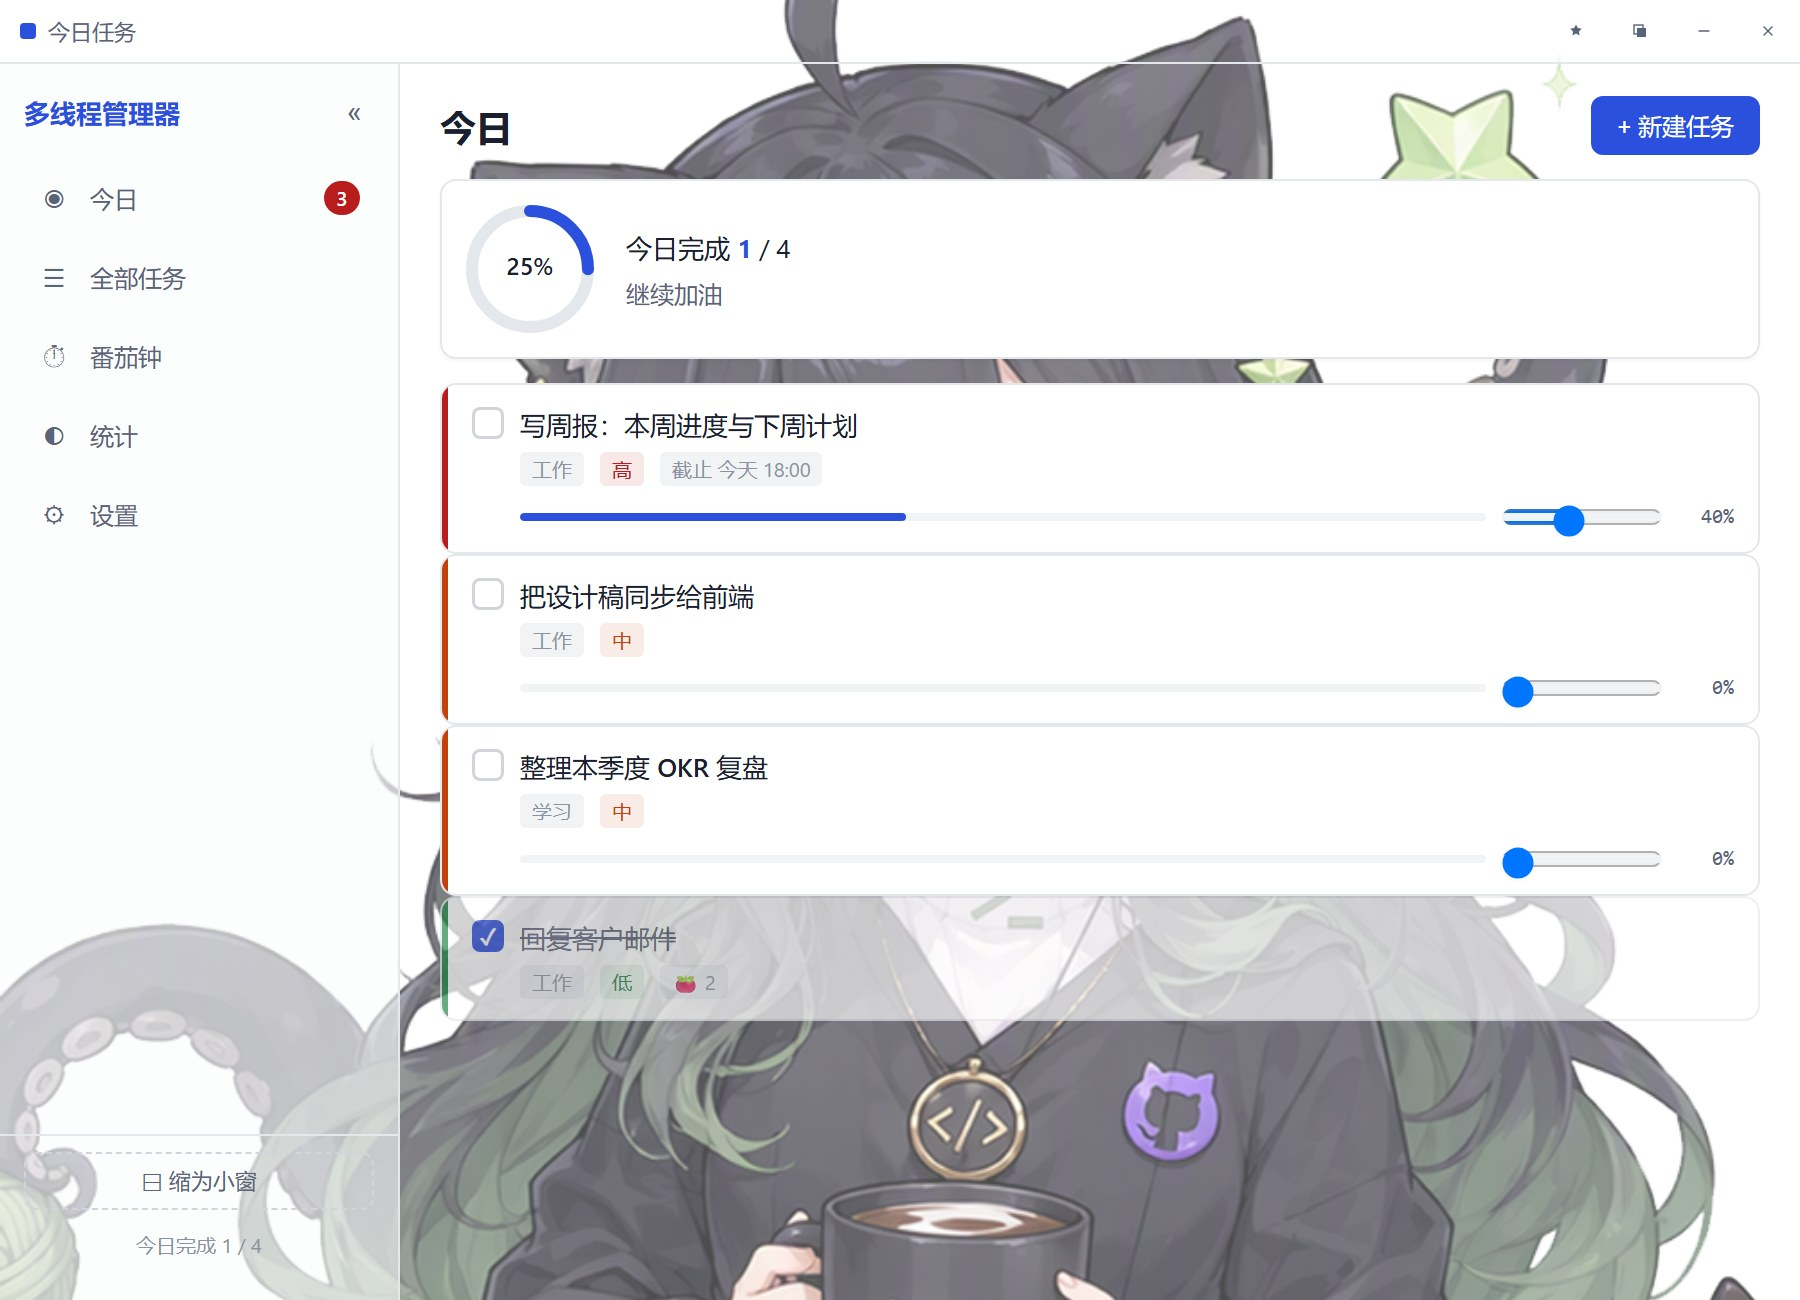
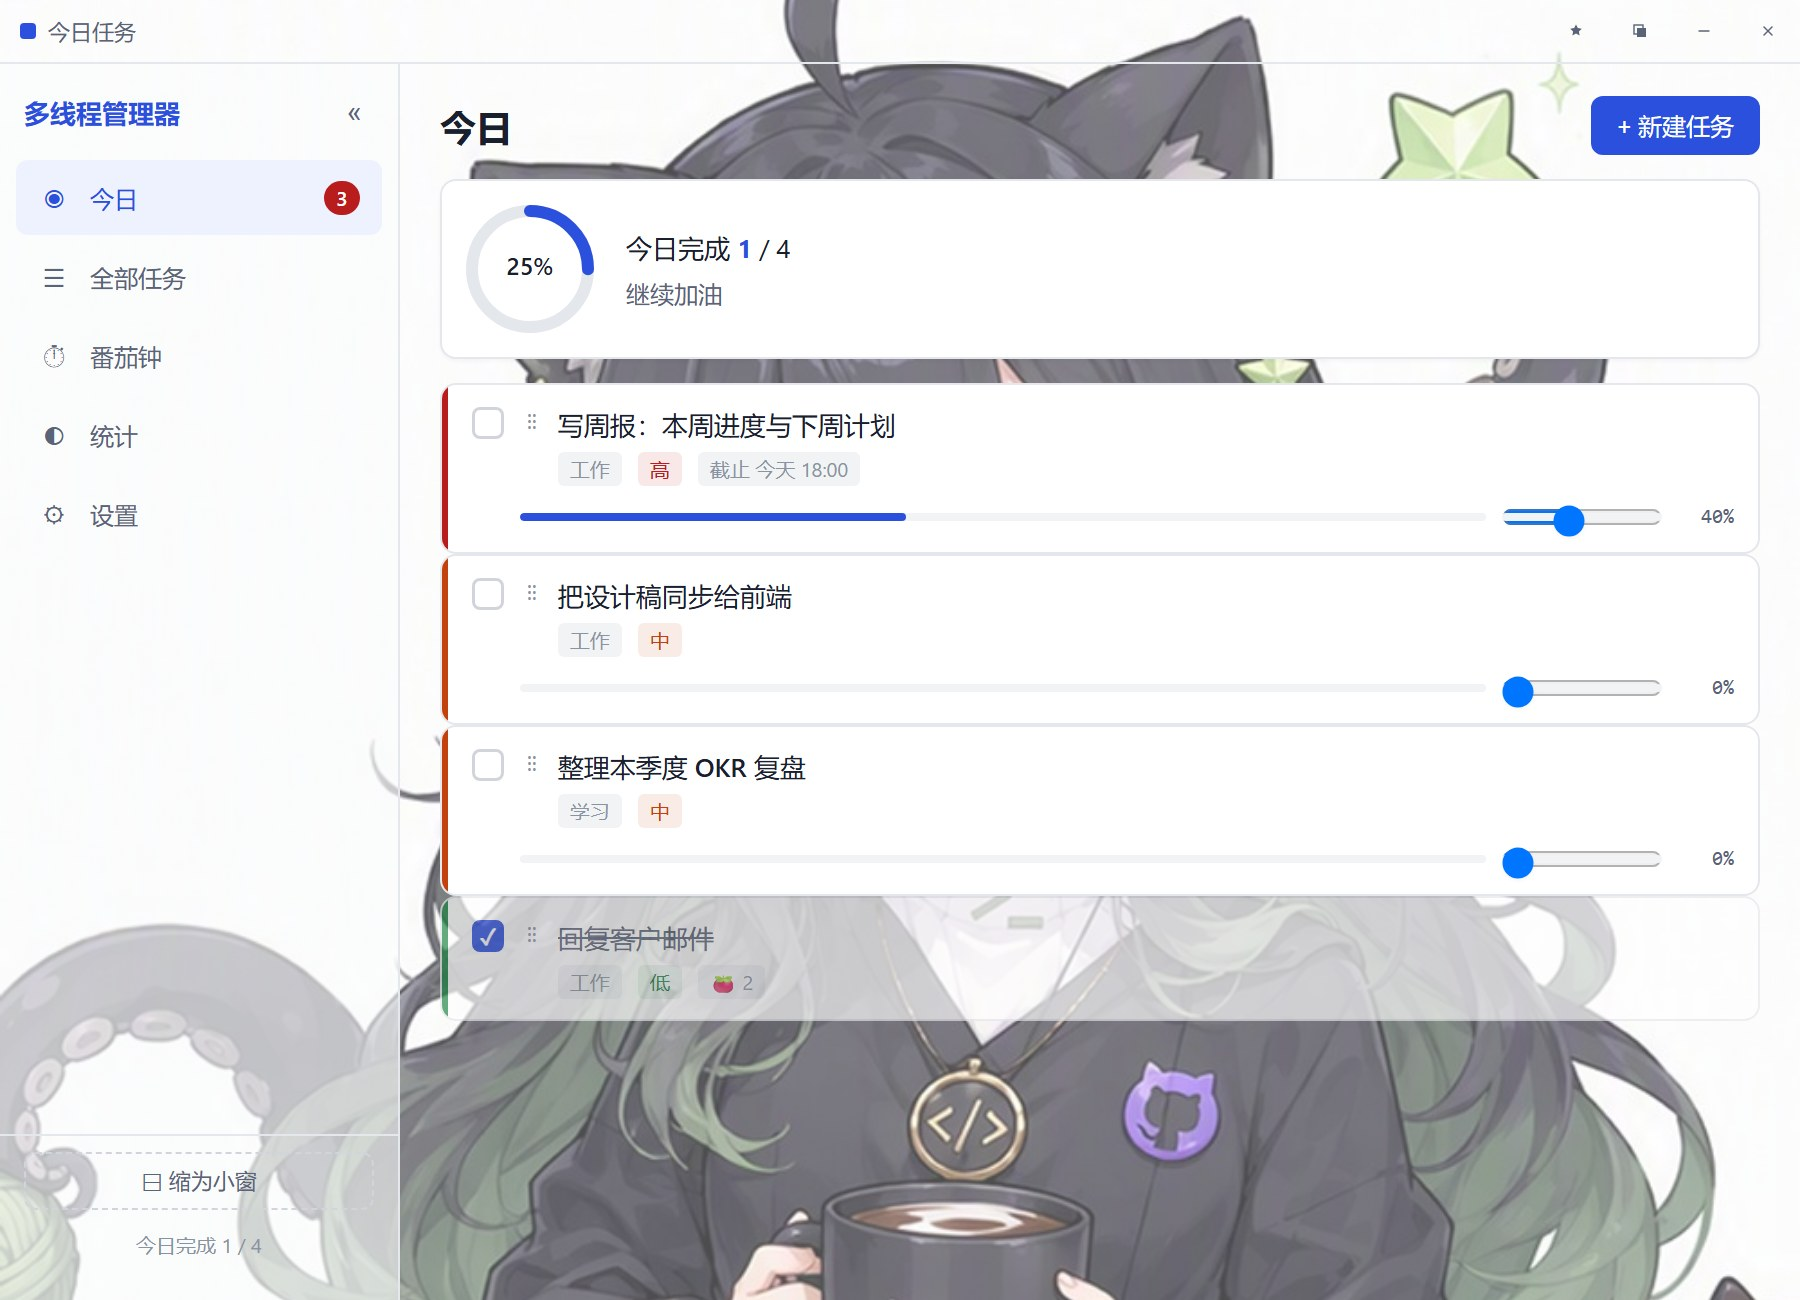
docs: 更新界面截图，说明内置背景与拖拽排序
- 三张截图重出：卡片带拖拽握把、设置页带「用内置背景」按钮
- 致谢改为说明内置默认背景来自 B 站用户 ZipZipPipe，并说明可以自由替换

diff --git a/README.md b/README.md
@@ -56,17 +56,17 @@
 
 ![窗口背景设置](docs/screenshot-settings.jpg)
 
-> 截图里的背景图片来自 **B 站用户 ZipZipPipe**，这里只作效果演示。程序本身不附带任何图片素材，背景图由你自己选。
+> 内置的默认背景图片来自 **B 站用户 ZipZipPipe**，随仓库放在 `src/assets/bg/wallpaper.jpg`。不喜欢的话随时可以换成自己的图，见 [窗口背景自定义](#窗口背景自定义)。
 
 ## 功能特性
 
-- **任务管理**：创建 / 编辑 / 删除，分类与标签、优先级、进度、状态流转、拖拽排序
+- **任务管理**：创建 / 编辑 / 删除，分类与标签、优先级、进度、状态流转；按住卡片左边的 `⋮⋮` 握把直接拖动排序
 - **今日任务**：把计划开始 / 截止在今天、今天创建、以及进行中的任务聚在一起；没有期限的任务未完成时会一直留着
 - **到点提醒**：任务开始前、到期前、到期时的系统通知，托盘菜单常驻
 - **番茄钟**：25 / 5 / 15 可配置，可关联任务，专注结束后自动 +1 番茄数
 - **统计回顾**：今日完成率环形图、近 7 天柱状图、近 30 天热力图、本月分类饼图
 - **mini 小窗**：一键缩成 260×360 置顶小窗（标题栏 / 侧边栏 / 托盘菜单），专注时挂在桌面角落
-- **窗口背景自定义**：不透明度、明暗程度、自定义图片（铺满 / 完整显示 / 平铺）与图片遮罩
+- **窗口背景自定义**：自带一张默认背景图，也可以换成自己的图片（铺满 / 完整显示 / 平铺），并调节不透明度、明暗程度与图片遮罩
 - **系统集成**：始终置顶、开机自启、深色模式（跟随系统 / 手动）、数据导入导出
 - **本地优先**：运行时零联网，不注册、不上传、无遥测，数据就是你机器上的一个 JSON 文件
 
@@ -135,15 +135,16 @@ git push origin v1.0.0
 |---|---|
 | 不透明度 | 0-100，越低越能透出桌面（窗口本身是透明的） |
 | 明暗程度 | 50 跟随主题；< 50 背景更暗，> 50 更亮 |
-| 背景图片 | 选择本地图片作为窗口背景，可切换铺满窗口 / 完整显示 / 平铺 |
+| 背景图片 | 默认用内置图；点「换成自己的图片…」可选任意本地图片，可切换铺满窗口 / 完整显示 / 平铺 |
 | 图片遮罩 | 在图片上叠一层主题色，0 为原图，越大文字越清晰 |
 
 几点说明：
 
+- **内置背景可以随便换**：设置里随时能换成自己的图片，也能一键「用内置背景」换回来；想彻底替换内置那张，直接改 `src/assets/bg/wallpaper.jpg` 即可。
 - 图片由主进程读成 data URL 再交给页面，开发模式（http）和打包后（file）行为一致
 - 只把图片**路径**存进 tasks.json，图片内容留在内存；图片被移动或删除后，设置页会给出提示
 - 支持 png / jpg / webp / gif / bmp / avif，单张上限 20MB
-- 默认值（明暗 50、不透明度 100、无图片）与未自定义时完全一致；「恢复默认背景」会连同图片一起清除
+- 默认值是内置背景 + 明暗 50 + 不透明度 100；「恢复默认背景」就是回到这套默认值
 
 ## 今日任务包含哪些
 
@@ -184,6 +185,7 @@ git push origin v1.0.0
 │   ├── services/
 │   ├── utils/
 │   └── assets/
+│       └── bg/        # 内置背景图（可自行替换 wallpaper.jpg）
 ├── index.html
 ├── docs/              # README 用的界面截图
 ├── vite.config.js
